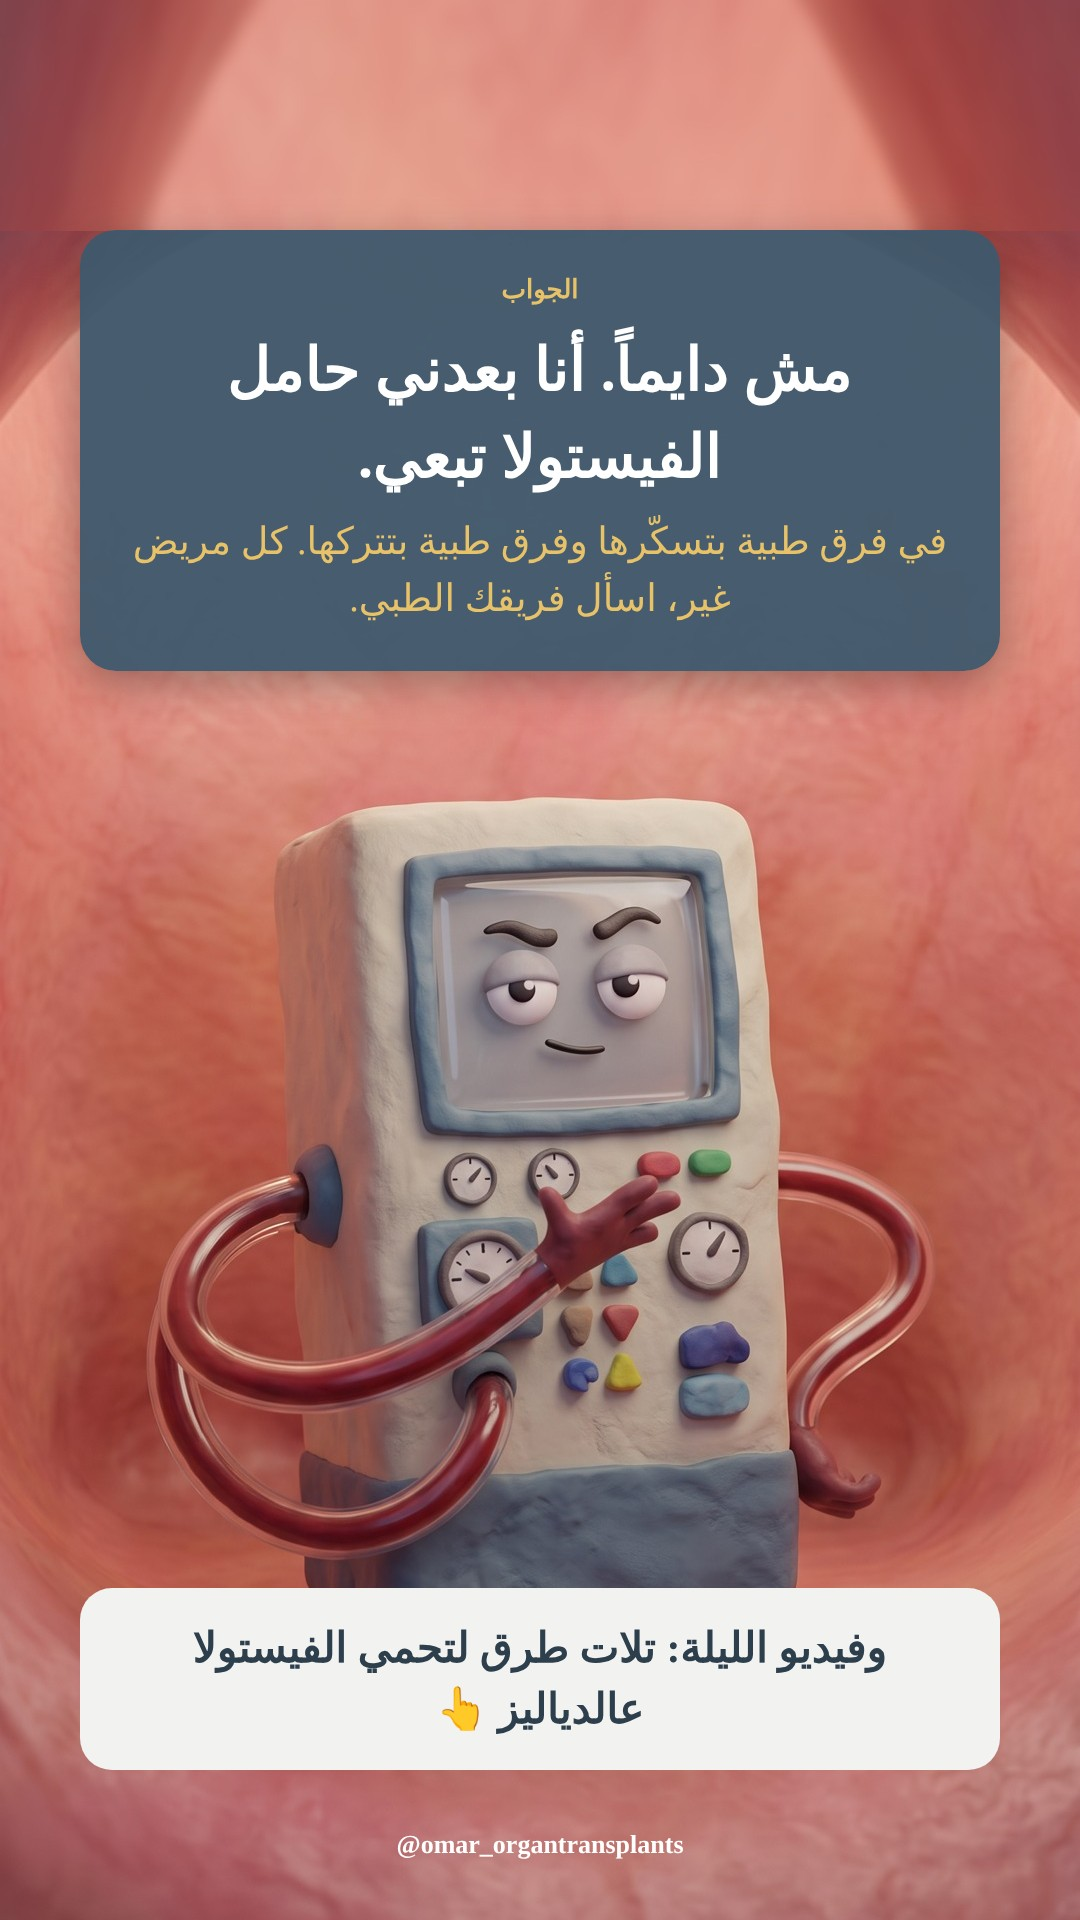
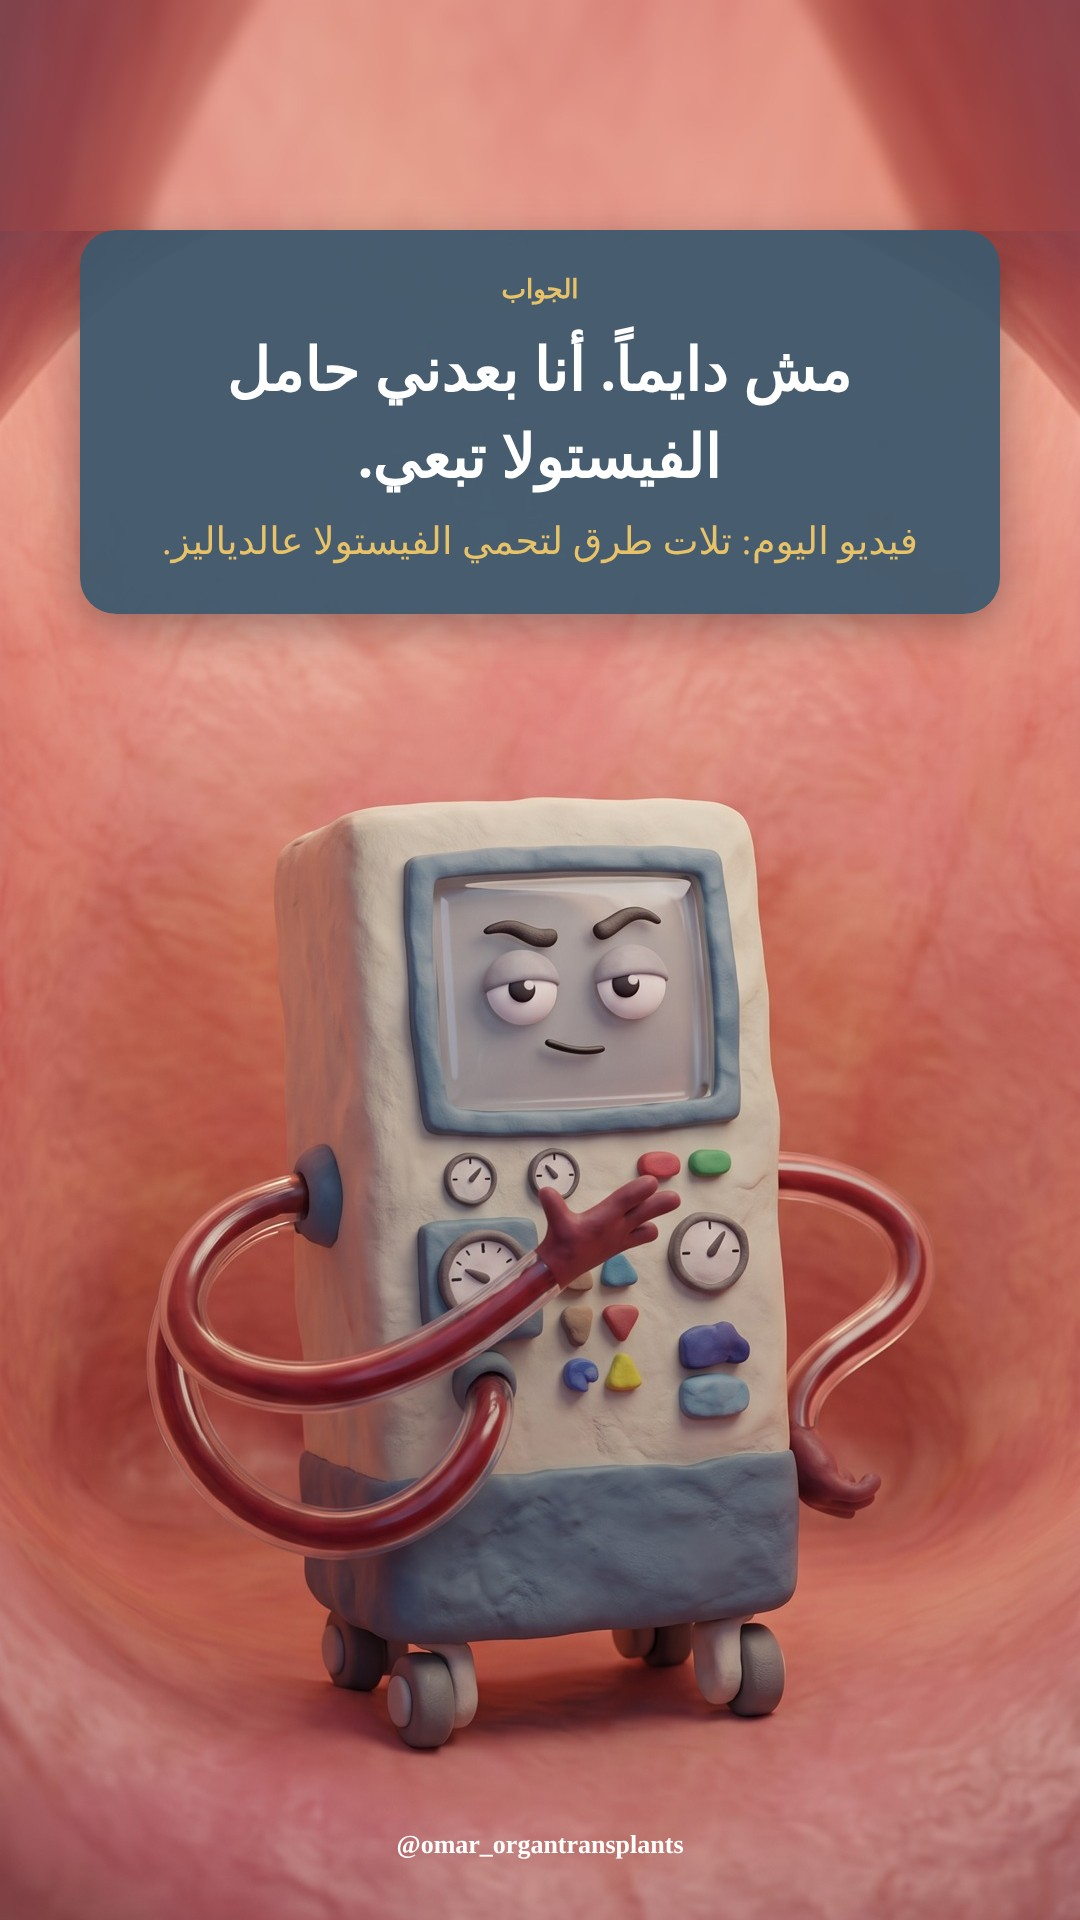
Stories 12-18 Nov: one purpose per story, no disclaimer on stories (Omar, 11 Nov)
Claude-Session: https://claude.ai/code/session_015KYtjJJUDackNT4dw8s1p3

Changed region(s): [[0.0611, 0.8125, 0.9472, 0.9375], [0.0611, 0.25, 0.9472, 0.375]]

diff --git a/tools/story.html b/tools/story.html
@@ -22,8 +22,8 @@ const s=JSON.parse(decodeURIComponent(location.hash.slice(1)));const e=t=>String
 document.body.innerHTML=`<div class="bg" style="background-image:url(${s.photo})"></div><div class="img" style="top:${s.dy||0}px;bottom:${-(s.dy||0)}px;background-image:url(${s.photo});background-position:center ${s.pos||'62%'}"></div>
 ${(()=>{const L=s.lang,isA=t=>/[\u0600-\u06FF]/.test(t),parts=String(s.eyebrow||'').split(' · '),eb=L?parts.filter(p=>L=='ar'?isA(p):!isA(p)).join(' · '):s.eyebrow;
 if(L=='en'){const m=String(s.en_h?'':s.en).match(/^(.+?[.?!])\s+(.+)$/);const h=s.en_h||(m?m[1]:s.en),sub=s.en_h?(s.en_sub||''):(m?m[2]:'');
-return `<div class="top"><div class="eb">${e(eb)}</div><div class="lt h">${e(h)}</div>${sub?`<div class="lt sub">${e(sub)}</div>`:''}</div><div class="q"><div class="lt">${e(s.qen)}</div></div>`}
-if(L=='ar')return `<div class="top"><div class="eb">${e(eb)}</div><div class="ar h">${e(s.ar)}</div>${s.ar2?`<div class="ar sub">${e(s.ar2)}</div>`:''}</div><div class="q"><div class="ar">${e(s.qar)}</div></div>`;
+return `<div class="top"><div class="eb">${e(eb)}</div><div class="lt h">${e(h)}</div>${sub?`<div class="lt sub">${e(sub)}</div>`:''}</div>${s.qen?`<div class="q"><div class="lt">${e(s.qen)}</div></div>`:''}`}
+if(L=='ar')return `<div class="top"><div class="eb">${e(eb)}</div><div class="ar h">${e(s.ar)}</div>${s.ar2?`<div class="ar sub">${e(s.ar2)}</div>`:''}</div>${s.qar?`<div class="q"><div class="ar">${e(s.qar)}</div></div>`:''}`;
 return `<div class="top"><div class="eb">${e(s.eyebrow)}</div><div class="ar h">${e(s.ar)}</div>${s.ar2?`<div class="ar sub">${e(s.ar2)}</div>`:''}<div class="en">${e(s.en)}</div></div>
 <div class="q"><div class="ar">${e(s.qar)}</div><div class="e">${e(s.qen)}</div></div>`})()}<div class="h2">@omar_organtransplants</div>`;
 </script></body></html>

diff --git a/tools/README.md b/tools/README.md
@@ -22,3 +22,4 @@
 - Wording (Omar, 11 Nov): in Arabic, a medical team is always "فريق طبي" (singular, e.g. "اسأل فريقك الطبي", "لفريقك الطبي", "فريقكن الطبي") and "فرق طبية" (plural, e.g. "في فرق طبية بتسكّرها وفرق طبية بتتركها"). Never bare "فريقك" / "فرق". Applies to stories, carousels, captions and scripts from now on.
 - Story languages (Omar, 11 Nov): no translations on stories from now on. Instagram stories are English only, TikTok stories Arabic only. Render both from one spec: `node story.js dXXXX.json ../stories/daily/<name>_ig.jpg en` and `... <name>_tt.jpg ar` (en splits the first sentence into the headline; set en_h/en_sub to override). The eyebrow keeps only the parts in that language. Buffer IG stories use the _ig file.
 - فريق طبي / فرق طبية also applies to video scripts, spoken lines and captions (Omar, 11 Nov).
+- Story purpose (Omar, 11 Nov): every story has ONE job. Either a "new" story (new episode / post / reel is up: eyebrow + headline + one short line, no question box) or a question story (the question as the headline, plus one short "reply" line in the bottom box). Never both on the same story. No "every patient is different / ask your team" on stories; that line goes in the post captions instead. Specs use en_h / en_sub / qen and ar / ar2 / qar; leave qen/qar out for "new" stories.
